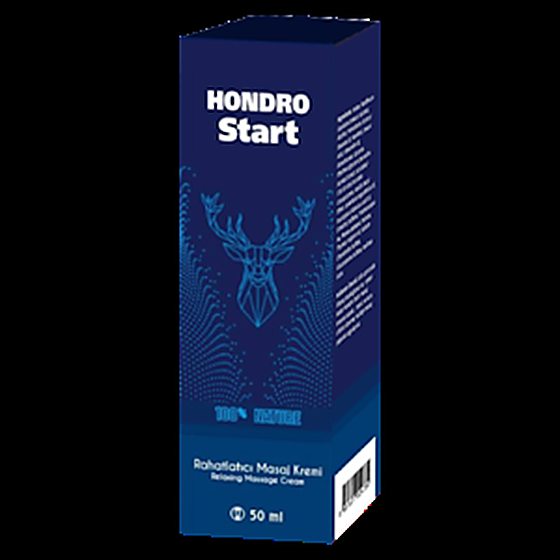
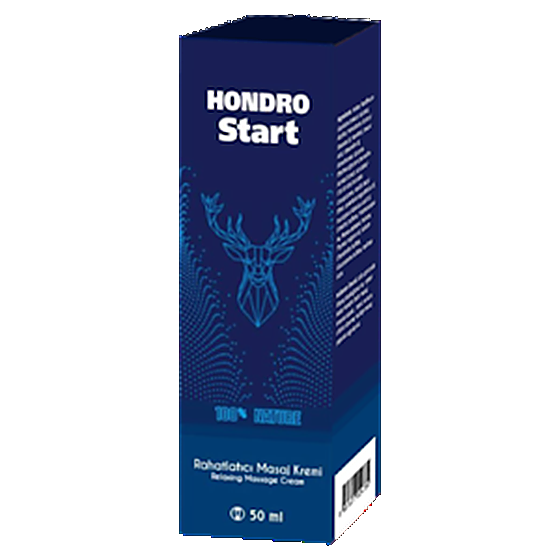
Фото: белый фон вместо чёрного — 763 кадра заливкой, 223 перерисовкой с автопроверкой текста

diff --git a/index.html b/index.html
@@ -52,7 +52,7 @@
 <div class="wrap">
   <header><img src="favicon.png" alt=""><h1>Üretici mağazası</h1></header>
   <div class="intro"><p>Günlük iyi hâl için ürünlerin doğrudan satışı.</p></div>
-  <div class="grid"><a class="card" href="/mc/alfa-pro/"><div class="ph"><img src="img/m1-alfapro.png" alt="Alfa Pro" loading="lazy"></div><div class="name">Alfa Pro</div><div class="price">889 TL</div><div class="btn">ORİJİNALİNİ SİPARİŞ ET</div></a><a class="card" href="/cp/alfapro/"><div class="ph"><img src="img/cat-cpa-15715.jpg" alt="Alfapro" loading="lazy"></div><div class="name">Alfapro</div><div class="price">889 TL</div><div class="btn">ORİJİNALİNİ SİPARİŞ ET</div></a><a class="card" href="/mc/alfapro/"><div class="ph"><img src="img/mchd-4846.png" alt="AlfaPro full" loading="lazy"></div><div class="name">AlfaPro full</div><div class="price">990 TL</div><div class="btn">ORİJİNALİNİ SİPARİŞ ET</div></a><a class="card" href="/dc/alfapro-33457/"><div class="ph"><img src="img/drcash-alfapro-33457.png" alt="Alfapro full price +" loading="lazy"></div><div class="name">Alfapro full price +</div><div class="price">990 TL</div><div class="btn">ORİJİNALİNİ SİPARİŞ ET</div></a><a class="card" href="/kma/alfapro-ii/"><div class="ph"><img src="img/kmahd-9815.jpg" alt="Alfapro II" loading="lazy"></div><div class="name">Alfapro II</div><div class="price">589 TL</div><div class="btn">ORİJİNALİNİ SİPARİŞ ET</div></a><a class="card" href="/kma/alfapro-iii/"><div class="ph"><img src="img/kmahd-10986.png" alt="Alfapro III" loading="lazy"></div><div class="name">Alfapro III</div><div class="price">889 TL</div><div class="btn">ORİJİNALİNİ SİPARİŞ ET</div></a><a class="card" href="/m1/alpha-rx/"><div class="ph"><img src="img/land-m1-7037.png" alt="Alpha RX" loading="lazy"></div><div class="name">Alpha RX</div><div class="price">899 TL</div><div class="btn">ORİJİNALİNİ SİPARİŞ ET</div></a><a class="card" href="/dc/chondrostart/"><div class="ph"><img src="img/trafficlight-chondrostart.png" alt="Chondrostart" loading="lazy"></div><div class="name">Chondrostart</div><div class="price">1378 TL</div><div class="btn">ORİJİNALİNİ SİPARİŞ ET</div></a><a class="card" href="/cp/cleopatra/"><div class="ph"><img src="img/cp-16173.jpg" alt="Cleopatra" loading="lazy"></div><div class="name">Cleopatra</div><div class="price">990 TL</div><div class="btn">ORİJİNALİNİ SİPARİŞ ET</div></a><a class="card" href="/dc/cleopatra-cream/"><div class="ph"><img src="img/dccard-32922.jpg" alt="Cleopatra cream" loading="lazy"></div><div class="name">Cleopatra cream</div><div class="price">1378 TL</div><div class="btn">ORİJİNALİNİ SİPARİŞ ET</div></a><a class="card" href="/cp/cordis/"><div class="ph"><img src="img/cp-7177.jpg" alt="CORDIS" loading="lazy"></div><div class="name">CORDIS</div><div class="price">349 TL</div><div class="btn">ORİJİNALİNİ SİPARİŞ ET</div></a><a class="card" href="/m1/detox-care/"><div class="ph"><img src="img/land-drcash-21127.png" alt="Detox Care" loading="lazy"></div><div class="name">Detox Care</div><div class="price">898 TL</div><div class="btn">ORİJİNALİNİ SİPARİŞ ET</div></a><a class="card" href="/kma/diatol-forte/"><div class="ph"><img src="img/kmahd-11708.png" alt="Diatol Forte" loading="lazy"></div><div class="name">Diatol Forte</div><div class="price">990 TL</div><div class="btn">ORİJİNALİNİ SİPARİŞ ET</div></a><a class="card" href="/m1/healthy-heart/"><div class="ph"><img src="img/land-m1-6912.png" alt="Healthy Heart" loading="lazy"></div><div class="name">Healthy Heart</div><div class="price">899 TL</div><div class="btn">ORİJİNALİNİ SİPARİŞ ET</div></a><a class="card" href="/kma/hepatol-forte/"><div class="ph"><img src="img/kmahd-11721.png" alt="Hepatol Forte" loading="lazy"></div><div class="name">Hepatol Forte</div><div class="price">990 TL</div><div class="btn">ORİJİNALİNİ SİPARİŞ ET</div></a><a class="card" href="/cp/hondrostart/"><div class="ph"><img src="img/cp-15721.jpg" alt="HondroStart" loading="lazy"></div><div class="name">HondroStart</div><div class="price">889 TL</div><div class="btn">ORİJİNALİNİ SİPARİŞ ET</div></a><a class="card" href="/mc/hondrostart-hight/"><div class="ph"><img src="img/mchd-5025.png" alt="Hondrostart hight price" loading="lazy"></div><div class="name">Hondrostart hight price</div><div class="price">990 TL</div><div class="btn">ORİJİNALİNİ SİPARİŞ ET</div></a><a class="card" href="/kma/hondrostart-ii/"><div class="ph"><img src="img/kmahd-9402.png" alt="HondroStart II" loading="lazy"></div><div class="name">HondroStart II</div><div class="price">689 TL</div><div class="btn">ORİJİNALİNİ SİPARİŞ ET</div></a><a class="card" href="/kma/hondrostart-iii/"><div class="ph"><img src="img/kmahd-10987.png" alt="HondroStart III" loading="lazy"></div><div class="name">HondroStart III</div><div class="price">889 TL</div><div class="btn">ORİJİNALİNİ SİPARİŞ ET</div></a><a class="card" href="/lr/imosteon/"><div class="ph"><img src="img/lrhd-5390.png" alt="Imosteon" loading="lazy"></div><div class="name">Imosteon</div><div class="price">899 TL</div><div class="btn">ORİJİNALİNİ SİPARİŞ ET</div></a><a class="card" href="/cp/imperium/"><div class="ph"><img src="img/cp-15727.jpg" alt="Imperium" loading="lazy"></div><div class="name">Imperium</div><div class="price">689 TL</div><div class="btn">ORİJİNALİNİ SİPARİŞ ET</div></a><a class="card" href="/kma/imperium-spray/"><div class="ph"><img src="img/kmahd-10693.png" alt="Imperium Spray" loading="lazy"></div><div class="name">Imperium Spray</div><div class="price">689 TL</div><div class="btn">ORİJİNALİNİ SİPARİŞ ET</div></a><a class="card" href="/kma/nautubone/"><div class="ph"><img src="img/kmahd-10186.png" alt="Nautubone" loading="lazy"></div><div class="name">Nautubone</div><div class="price">1400 TL</div><div class="btn">ORİJİNALİNİ SİPARİŞ ET</div></a><a class="card" href="/dc/o-caps/"><div class="ph"><img src="img/adcombo-o-caps.png" alt="O caps" loading="lazy"></div><div class="name">O caps</div><div class="price">1400 TL</div><div class="btn">ORİJİNALİNİ SİPARİŞ ET</div></a><a class="card" href="/cp/pro-caps/"><div class="ph"><img src="img/achd-34896.jpg" alt="Pro caps" loading="lazy"></div><div class="name">Pro caps</div><div class="price">1400 TL</div><div class="btn">ORİJİNALİNİ SİPARİŞ ET</div></a><a class="card" href="/kma/prosatol-complex/"><div class="ph"><img src="img/kmahd-11709.png" alt="Prosatol Complex" loading="lazy"></div><div class="name">Prosatol Complex</div><div class="price">990 TL</div><div class="btn">ORİJİNALİNİ SİPARİŞ ET</div></a><a class="card" href="/dc/prostalab/"><div class="ph"><img src="img/drcash-prostalab.png" alt="Prostalab" loading="lazy"></div><div class="name">Prostalab</div><div class="price">1378 TL</div><div class="btn">ORİJİNALİNİ SİPARİŞ ET</div></a><a class="card" href="/lr/prostalab-6793/"><div class="ph"><img src="img/cp-18499.jpg" alt="Prostalab 990" loading="lazy"></div><div class="name">Prostalab 990</div><div class="price">990 TL</div><div class="btn">ORİJİNALİNİ SİPARİŞ ET</div></a><a class="card" href="/dc/prostalab-33466/"><div class="ph"><img src="img/drcash-prostalab-33466.png" alt="Prostalab full price+" loading="lazy"></div><div class="name">Prostalab full price+</div><div class="price">990 TL</div><div class="btn">ORİJİNALİNİ SİPARİŞ ET</div></a><a class="card" href="/tl/quick-f/"><div class="ph"><img src="img/tlhd-20240.jpg" alt="Quick F" loading="lazy"></div><div class="name">Quick F</div><div class="price">1400 TL</div><div class="btn">ORİJİNALİNİ SİPARİŞ ET</div></a><a class="card" href="/cp/redustar/"><div class="ph"><img src="img/cp-15723.jpg" alt="Redustar" loading="lazy"></div><div class="name">Redustar</div><div class="price">889 TL</div><div class="btn">ORİJİNALİNİ SİPARİŞ ET</div></a><a class="card" href="/kma/redustar-ii/"><div class="ph"><img src="img/kmahd-10856.png" alt="Redustar II" loading="lazy"></div><div class="name">Redustar II</div><div class="price">689 TL</div><div class="btn">ORİJİNALİNİ SİPARİŞ ET</div></a><a class="card" href="/kma/redustar-iii/"><div class="ph"><img src="img/kmahd-10988.jpg" alt="Redustar III" loading="lazy"></div><div class="name">Redustar III</div><div class="price">889 TL</div><div class="btn">ORİJİNALİNİ SİPARİŞ ET</div></a><a class="card" href="/kma/slim-complex/"><div class="ph"><img src="img/kmahd-11722.png" alt="Slim Complex" loading="lazy"></div><div class="name">Slim Complex</div><div class="price">990 TL</div><div class="btn">ORİJİNALİNİ SİPARİŞ ET</div></a><a class="card" href="/dc/chondrostart-33460/"><div class="ph"></div><div class="name">Chondrostart full price+</div><div class="price">990 TL</div><div class="btn">ORİJİNALİNİ SİPARİŞ ET</div></a><a class="card" href="/m1/dr-hammer/"><div class="ph"></div><div class="name">Dr.Hammer</div><div class="price">899 TL</div><div class="btn">ORİJİNALİNİ SİPARİŞ ET</div></a></div>
+  <div class="grid"><a class="card" href="/mc/alfa-pro/"><div class="ph"><img src="img/m1-alfapro.png" alt="Alfa Pro" loading="lazy"></div><div class="name">Alfa Pro</div><div class="price">889 TL</div><div class="btn">ORİJİNALİNİ SİPARİŞ ET</div></a><a class="card" href="/cp/alfapro/"><div class="ph"><img src="img/cat-cpa-15715.jpg" alt="Alfapro" loading="lazy"></div><div class="name">Alfapro</div><div class="price">889 TL</div><div class="btn">ORİJİNALİNİ SİPARİŞ ET</div></a><a class="card" href="/mc/alfapro/"><div class="ph"><img src="img/mchd-4846.png" alt="AlfaPro full" loading="lazy"></div><div class="name">AlfaPro full</div><div class="price">990 TL</div><div class="btn">ORİJİNALİNİ SİPARİŞ ET</div></a><a class="card" href="/dc/alfapro-33457/"><div class="ph"><img src="img/drcash-alfapro-33457.png" alt="Alfapro full price +" loading="lazy"></div><div class="name">Alfapro full price +</div><div class="price">990 TL</div><div class="btn">ORİJİNALİNİ SİPARİŞ ET</div></a><a class="card" href="/kma/alfapro-ii/"><div class="ph"><img src="img/kmahd-9815.jpg" alt="Alfapro II" loading="lazy"></div><div class="name">Alfapro II</div><div class="price">589 TL</div><div class="btn">ORİJİNALİNİ SİPARİŞ ET</div></a><a class="card" href="/kma/alfapro-iii/"><div class="ph"><img src="img/kmahd-10986.png" alt="Alfapro III" loading="lazy"></div><div class="name">Alfapro III</div><div class="price">889 TL</div><div class="btn">ORİJİNALİNİ SİPARİŞ ET</div></a><a class="card" href="/m1/alpha-rx/"><div class="ph"><img src="img/land-m1-7037.png" alt="Alpha RX" loading="lazy"></div><div class="name">Alpha RX</div><div class="price">899 TL</div><div class="btn">ORİJİNALİNİ SİPARİŞ ET</div></a><a class="card" href="/dc/chondrostart/"><div class="ph"><img src="img/trafficlight-chondrostart.png" alt="Chondrostart" loading="lazy"></div><div class="name">Chondrostart</div><div class="price">1378 TL</div><div class="btn">ORİJİNALİNİ SİPARİŞ ET</div></a><a class="card" href="/cp/cleopatra/"><div class="ph"><img src="img/cp-16173.jpg" alt="Cleopatra" loading="lazy"></div><div class="name">Cleopatra</div><div class="price">990 TL</div><div class="btn">ORİJİNALİNİ SİPARİŞ ET</div></a><a class="card" href="/dc/cleopatra-cream/"><div class="ph"><img src="img/dccard-32922.jpg" alt="Cleopatra cream" loading="lazy"></div><div class="name">Cleopatra cream</div><div class="price">1378 TL</div><div class="btn">ORİJİNALİNİ SİPARİŞ ET</div></a><a class="card" href="/cp/cordis/"><div class="ph"><img src="img/cp-7177.jpg" alt="CORDIS" loading="lazy"></div><div class="name">CORDIS</div><div class="price">349 TL</div><div class="btn">ORİJİNALİNİ SİPARİŞ ET</div></a><a class="card" href="/m1/detox-care/"><div class="ph"><img src="img/land-drcash-21127.png" alt="Detox Care" loading="lazy"></div><div class="name">Detox Care</div><div class="price">898 TL</div><div class="btn">ORİJİNALİNİ SİPARİŞ ET</div></a><a class="card" href="/kma/diatol-forte/"><div class="ph"><img src="img/kmahd-11708.png" alt="Diatol Forte" loading="lazy"></div><div class="name">Diatol Forte</div><div class="price">990 TL</div><div class="btn">ORİJİNALİNİ SİPARİŞ ET</div></a><a class="card" href="/m1/healthy-heart/"><div class="ph"><img src="img/land-m1-6912.png" alt="Healthy Heart" loading="lazy"></div><div class="name">Healthy Heart</div><div class="price">899 TL</div><div class="btn">ORİJİNALİNİ SİPARİŞ ET</div></a><a class="card" href="/kma/hepatol-forte/"><div class="ph"><img src="img/kmahd-11721.png" alt="Hepatol Forte" loading="lazy"></div><div class="name">Hepatol Forte</div><div class="price">990 TL</div><div class="btn">ORİJİNALİNİ SİPARİŞ ET</div></a><a class="card" href="/cp/hondrostart/"><div class="ph"><img src="img/cp-15721.jpg" alt="HondroStart" loading="lazy"></div><div class="name">HondroStart</div><div class="price">889 TL</div><div class="btn">ORİJİNALİNİ SİPARİŞ ET</div></a><a class="card" href="/mc/hondrostart-hight/"><div class="ph"><img src="img/mchd-5025.png" alt="Hondrostart hight price" loading="lazy"></div><div class="name">Hondrostart hight price</div><div class="price">990 TL</div><div class="btn">ORİJİNALİNİ SİPARİŞ ET</div></a><a class="card" href="/kma/hondrostart-ii/"><div class="ph"><img src="img/kmahd-9402.png" alt="HondroStart II" loading="lazy"></div><div class="name">HondroStart II</div><div class="price">689 TL</div><div class="btn">ORİJİNALİNİ SİPARİŞ ET</div></a><a class="card" href="/kma/hondrostart-iii/"><div class="ph"><img src="img/kmahd-10987.png" alt="HondroStart III" loading="lazy"></div><div class="name">HondroStart III</div><div class="price">889 TL</div><div class="btn">ORİJİNALİNİ SİPARİŞ ET</div></a><a class="card" href="/lr/imosteon/"><div class="ph"><img src="img/lrhd-5390.png" alt="Imosteon" loading="lazy"></div><div class="name">Imosteon</div><div class="price">899 TL</div><div class="btn">ORİJİNALİNİ SİPARİŞ ET</div></a><a class="card" href="/cp/imperium/"><div class="ph"><img src="img/cp-15727.jpg" alt="Imperium" loading="lazy"></div><div class="name">Imperium</div><div class="price">689 TL</div><div class="btn">ORİJİNALİNİ SİPARİŞ ET</div></a><a class="card" href="/kma/imperium-spray/"><div class="ph"><img src="img/kmahd-10693.png" alt="Imperium Spray" loading="lazy"></div><div class="name">Imperium Spray</div><div class="price">689 TL</div><div class="btn">ORİJİNALİNİ SİPARİŞ ET</div></a><a class="card" href="/kma/nautubone/"><div class="ph"><img src="img/redraw-kmahd-10186.png" alt="Nautubone" loading="lazy"></div><div class="name">Nautubone</div><div class="price">1400 TL</div><div class="btn">ORİJİNALİNİ SİPARİŞ ET</div></a><a class="card" href="/dc/o-caps/"><div class="ph"><img src="img/adcombo-o-caps.png" alt="O caps" loading="lazy"></div><div class="name">O caps</div><div class="price">1400 TL</div><div class="btn">ORİJİNALİNİ SİPARİŞ ET</div></a><a class="card" href="/cp/pro-caps/"><div class="ph"><img src="img/drcash-pro-caps.jpg" alt="Pro caps" loading="lazy"></div><div class="name">Pro caps</div><div class="price">1400 TL</div><div class="btn">ORİJİNALİNİ SİPARİŞ ET</div></a><a class="card" href="/kma/prosatol-complex/"><div class="ph"><img src="img/kmahd-11709.png" alt="Prosatol Complex" loading="lazy"></div><div class="name">Prosatol Complex</div><div class="price">990 TL</div><div class="btn">ORİJİNALİNİ SİPARİŞ ET</div></a><a class="card" href="/dc/prostalab/"><div class="ph"><img src="img/drcash-prostalab.png" alt="Prostalab" loading="lazy"></div><div class="name">Prostalab</div><div class="price">1378 TL</div><div class="btn">ORİJİNALİNİ SİPARİŞ ET</div></a><a class="card" href="/lr/prostalab-6793/"><div class="ph"><img src="img/cp-18499.jpg" alt="Prostalab 990" loading="lazy"></div><div class="name">Prostalab 990</div><div class="price">990 TL</div><div class="btn">ORİJİNALİNİ SİPARİŞ ET</div></a><a class="card" href="/dc/prostalab-33466/"><div class="ph"><img src="img/drcash-prostalab-33466.png" alt="Prostalab full price+" loading="lazy"></div><div class="name">Prostalab full price+</div><div class="price">990 TL</div><div class="btn">ORİJİNALİNİ SİPARİŞ ET</div></a><a class="card" href="/tl/quick-f/"><div class="ph"><img src="img/tlhd-20240.jpg" alt="Quick F" loading="lazy"></div><div class="name">Quick F</div><div class="price">1400 TL</div><div class="btn">ORİJİNALİNİ SİPARİŞ ET</div></a><a class="card" href="/cp/redustar/"><div class="ph"><img src="img/cp-15723.jpg" alt="Redustar" loading="lazy"></div><div class="name">Redustar</div><div class="price">889 TL</div><div class="btn">ORİJİNALİNİ SİPARİŞ ET</div></a><a class="card" href="/kma/redustar-ii/"><div class="ph"><img src="img/kmahd-10856.png" alt="Redustar II" loading="lazy"></div><div class="name">Redustar II</div><div class="price">689 TL</div><div class="btn">ORİJİNALİNİ SİPARİŞ ET</div></a><a class="card" href="/kma/redustar-iii/"><div class="ph"><img src="img/kmahd-10988.jpg" alt="Redustar III" loading="lazy"></div><div class="name">Redustar III</div><div class="price">889 TL</div><div class="btn">ORİJİNALİNİ SİPARİŞ ET</div></a><a class="card" href="/kma/slim-complex/"><div class="ph"><img src="img/kmahd-11722.png" alt="Slim Complex" loading="lazy"></div><div class="name">Slim Complex</div><div class="price">990 TL</div><div class="btn">ORİJİNALİNİ SİPARİŞ ET</div></a><a class="card" href="/dc/chondrostart-33460/"><div class="ph"></div><div class="name">Chondrostart full price+</div><div class="price">990 TL</div><div class="btn">ORİJİNALİNİ SİPARİŞ ET</div></a><a class="card" href="/m1/dr-hammer/"><div class="ph"></div><div class="name">Dr.Hammer</div><div class="price">899 TL</div><div class="btn">ORİJİNALİNİ SİPARİŞ ET</div></a></div>
   <footer><a href="privacy.html">Gizlilik Politikası</a><a href="terms.html">Kullanım Koşulları</a><a href="kontakt.html">İletişim</a><a href="about.html">Hakkımızda</a><span>fazalstrk@gmail.com</span><span>© 2026</span></footer>
 </div>
 </body>

diff --git a/mc/imperium-spray/index.html b/mc/imperium-spray/index.html
@@ -260,7 +260,7 @@ body.free .disc,body:not(.free) .nodisc{display:none}
       <div>
         <div class="product-card">
           <span class="disc-ribbon disc">-50%</span>
-          <img src="../../img/mchd-5026.png" alt="Imperium spray">
+          <img src="../../img/redraw-mchd-5026.png" alt="Imperium spray">
           <div><span class="ribbon">Orijinal</span><div class="shotcap">Mühürlü ve parti numaralı orijinal kutu</div></div>
         </div>
       </div>

diff --git a/kma/nautubone/index.html b/kma/nautubone/index.html
@@ -260,7 +260,7 @@ body.free .disc,body:not(.free) .nodisc{display:none}
       <div>
         <div class="product-card">
           <span class="disc-ribbon disc">-50%</span>
-          <img src="../../img/kmahd-10186.png" alt="Nautubone">
+          <img src="../../img/redraw-kmahd-10186.png" alt="Nautubone">
           <div><span class="ribbon">Orijinal</span><div class="shotcap">Mühürlü ve parti numaralı orijinal kutu</div></div>
         </div>
       </div>

diff --git a/cp/pro-caps/index.html b/cp/pro-caps/index.html
@@ -260,7 +260,7 @@ body.free .disc,body:not(.free) .nodisc{display:none}
       <div>
         <div class="product-card">
           <span class="disc-ribbon disc">-50%</span>
-          <img src="../../img/achd-34896.jpg" alt="Pro caps">
+          <img src="../../img/drcash-pro-caps.jpg" alt="Pro caps">
           <div><span class="ribbon">Orijinal</span><div class="shotcap">Mühürlü ve parti numaralı orijinal kutu</div></div>
         </div>
       </div>
